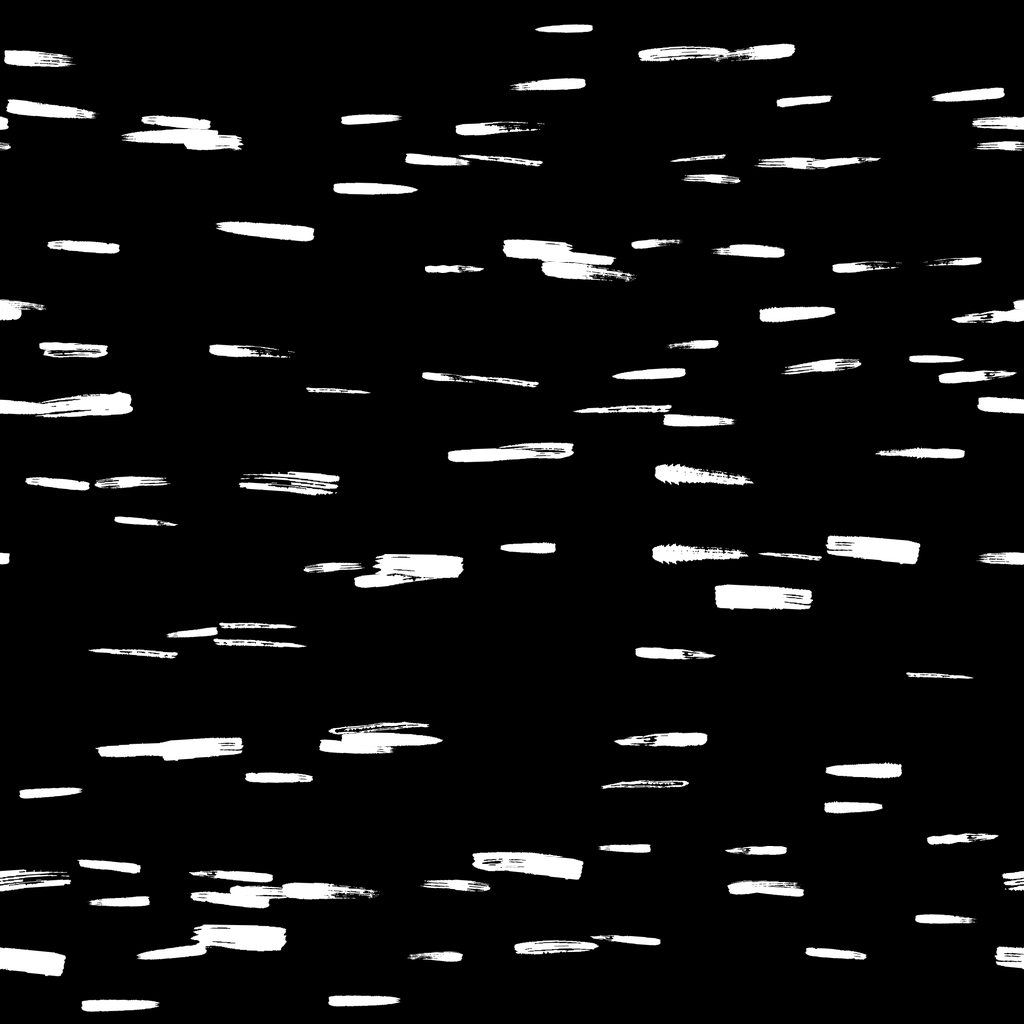
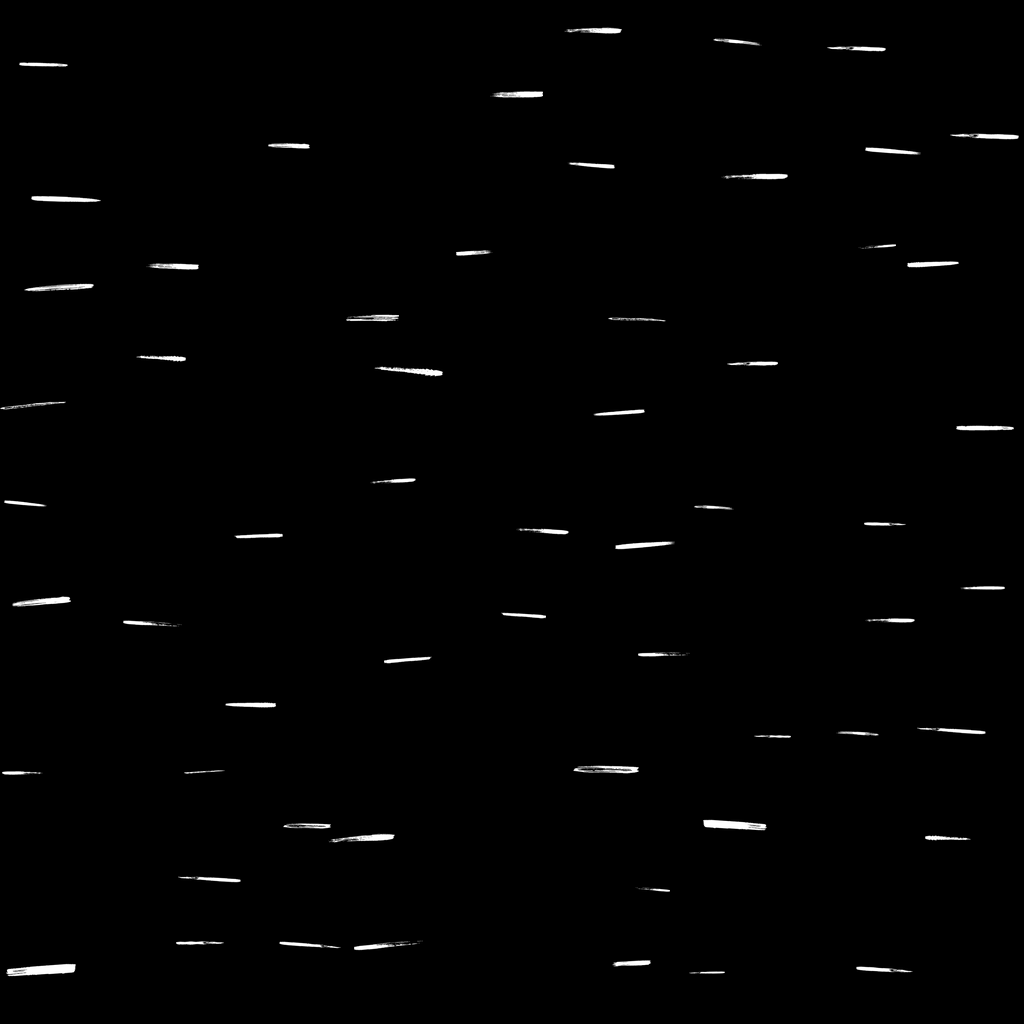
Thinner, fewer strokes on the snow; cones no bigger than twigs
Claude-Session: https://claude.ai/code/session_01KCD8wfrosBJ66eR6mMCCUF

diff --git a/tools/art/ground-sheet.py b/tools/art/ground-sheet.py
@@ -29,10 +29,12 @@ KINDS = {
     'tufts': dict(long=(0.38, 0.6), squares=10, keep=0.7, turn=180, together=(1, 1)),
     'flowers': dict(long=(0.16, 0.27), squares=9, keep=0.65, turn=180, together=(2, 4)),
     'ferns': dict(long=(0.5, 0.8), squares=9, keep=0.65, turn=180, together=(1, 1)),
-    'twigs': dict(long=(0.5, 0.9), squares=8, keep=0.6, turn=180, together=(1, 1)),
+    # A cone is as long as it is broad, and would come out far bigger than a twig of the same length: `stout` shrinks what is.
+    'twigs': dict(long=(0.45, 0.8), squares=8, keep=0.6, turn=180, together=(1, 1), stout=0.5),
     'pebbles': dict(long=(0.14, 0.32), squares=10, keep=0.6, turn=180, together=(1, 3)),
     # Strokes lie east and west, as the groomer's lines and the wind's do on this mountain.
-    'strokes': dict(long=(0.8, 1.6), squares=10, keep=0.7, turn=6, together=(1, 2)),
+    # Thin and few: a field of snow is nearly all snow. `flat` presses a stroke thinner than it was painted.
+    'strokes': dict(long=(0.55, 1.1), squares=9, keep=0.7, turn=6, together=(1, 1), flat=0.5),
 }
 
 
@@ -63,6 +65,10 @@ def lay(kind, stamps, rng):
 
     def put(stamp, cx, cy):
         long = rng.uniform(*spec['long']) * PX
+        if max(stamp.size) < 1.6 * min(stamp.size):
+            long *= spec.get('stout', 1)
+        if 'flat' in spec:
+            stamp = stamp.resize((stamp.size[0], max(1, round(stamp.size[1] * spec['flat']))), Image.LANCZOS)
         turned = stamp.rotate(rng.uniform(-spec['turn'], spec['turn']), expand=True, resample=Image.BICUBIC)
         if rng.random() < 0.5:
             turned = turned.transpose(Image.FLIP_LEFT_RIGHT)
